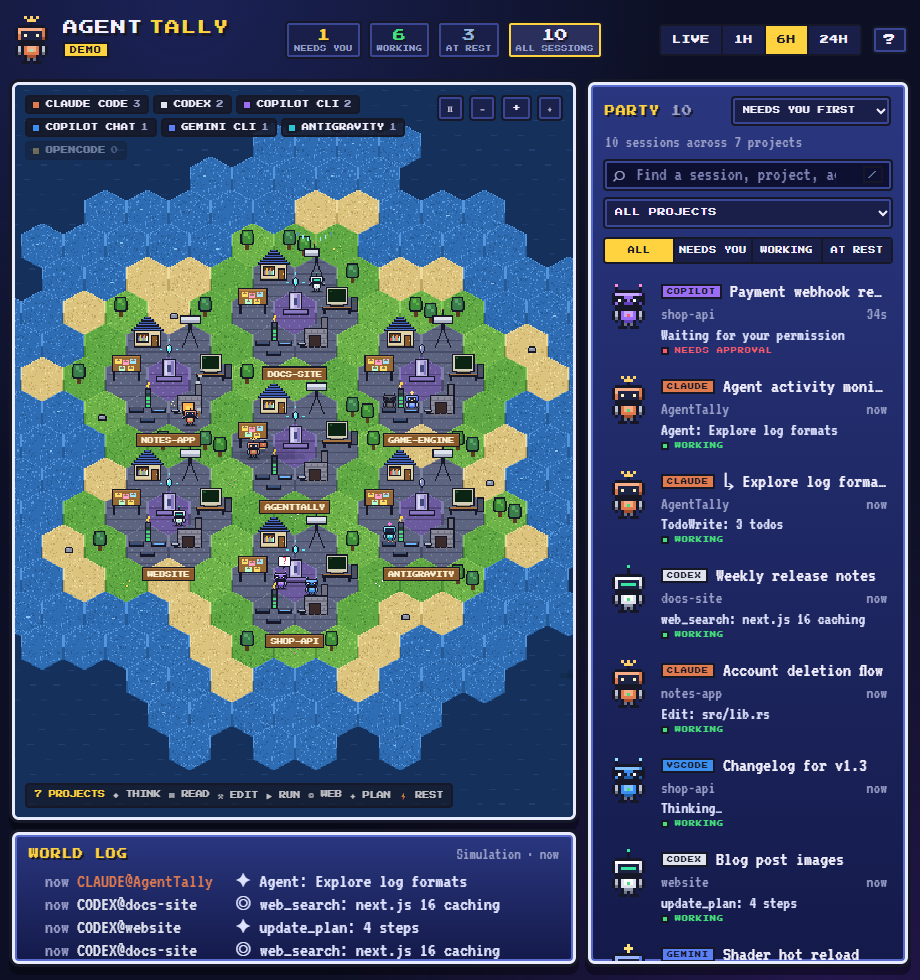
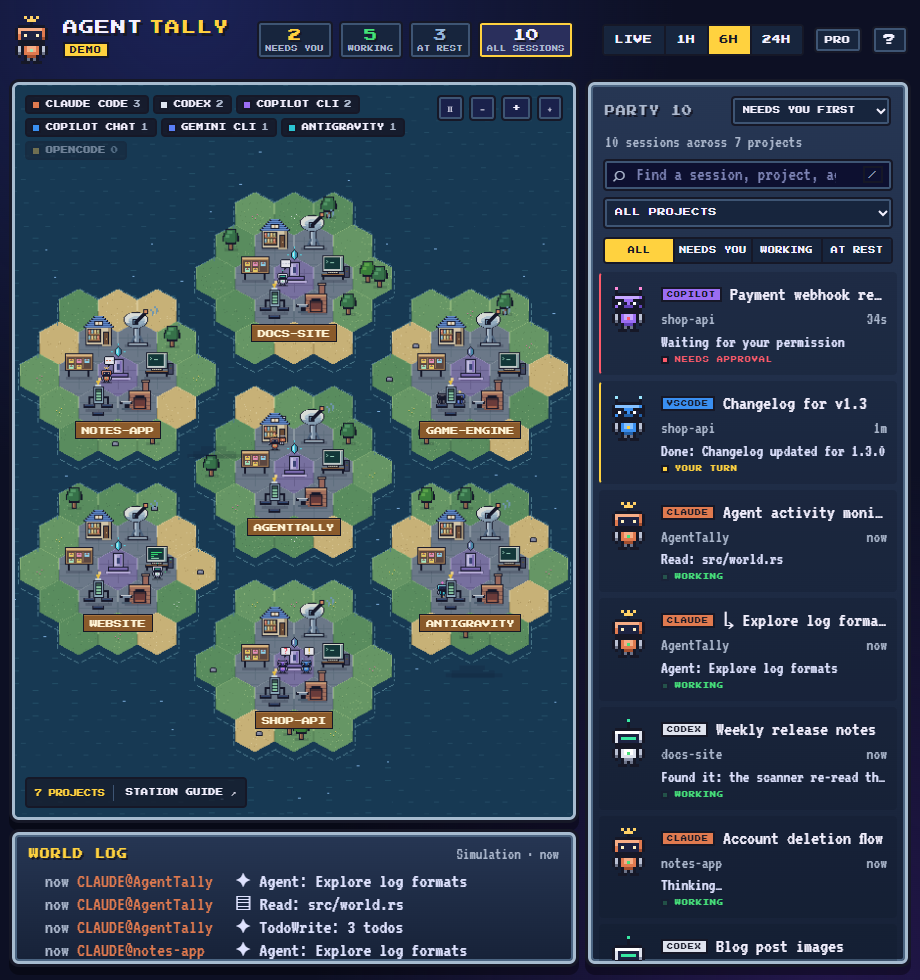
README: describe both interfaces and refresh every screenshot
- New screenshots from the current UI (demo data): Pixel world, Pixel and Pro
  session details, Pro workspace, station guide and the narrow layout.
  The outdated island-polish.png is removed.
- README covers the Pro workspace, the station guide, Antigravity's new
  coverage, per-interface controls, release steps, and adds badges.

diff --git a/README.md b/README.md
@@ -1,25 +1,24 @@
 # AgentTally
 
-A 16-bit hex world that shows what the AI coding agents on your machine are doing, live.
+[![Latest release](https://img.shields.io/github/v/release/kasuken/AgentTally?label=download)](https://github.com/kasuken/AgentTally/releases/latest)
+[![CI](https://github.com/kasuken/AgentTally/actions/workflows/ci.yml/badge.svg)](https://github.com/kasuken/AgentTally/actions/workflows/ci.yml)
+![Platforms](https://img.shields.io/badge/platforms-Windows%20%7C%20macOS%20%7C%20Linux-informational)
 
-Every agent session is a small robot. Every project is a hex island with a **Core** in the
-middle and six stations around it. Robots walk to the station that matches what their agent is
-doing right now, so one glance tells you who is reading code, who is editing, who is running
-commands, and who is waiting for **you**.
+See what the AI coding agents on your machine are doing, live: Claude Code, Codex, GitHub
+Copilot, Gemini CLI, Antigravity and more, side by side.
 
-![AgentTally showing seven project islands with robots at work](docs/screenshots/world.png)
+AgentTally has two interfaces over the same data, and you can switch between them at any time:
+
+- **Pixel** (default): a 16-bit hex world. Every project is an island, every agent session is a
+  small robot that walks to the building matching what it is doing right now.
+- **Pro**: a calm workspace dashboard with one panel per project, one row per session and a
+  30-minute activity timeline.
+
+![The Pixel interface: seven project islands with robots at work](docs/screenshots/world.png)
+
+![The Pro interface: projects as panels with session timelines](docs/screenshots/pro.png)
 
 AgentTally only **reads** local log files. It never sends anything anywhere.
-
-### Two interfaces, same data
-
-Prefer something quieter for the office? Press **Pro view** in the top bar (or <kbd>U</kbd>) to
-switch to a professional workspace dashboard: one panel per project, one row per session with a
-30-minute activity timeline, the current activity, a tool-mix bar and the time it was last seen.
-Search, filters, sorting, session details and the activity log work the same in both. The pixel
-world is the default, and AgentTally remembers the one you picked.
-
-![The Pro workspace view with a session waiting for approval](docs/screenshots/pro.png)
 
 ## Install
 
@@ -58,9 +57,13 @@ sudo apt install ./AgentTally_*_amd64.deb        # Debian, Ubuntu
 sudo dnf install ./AgentTally-*.x86_64.rpm       # Fedora, RHEL
 ```
 
-Then just start your agents as usual. Robots beam in as soon as a session writes to its log.
+Then just start your agents as usual. Sessions appear as soon as they write to their logs.
 
-## How it works
+## The Pixel world
+
+Every project is a hex island with a **Core** in the middle and six buildings around it. Robots
+walk to the building that matches what their agent is doing, so one glance tells you who is
+reading code, who is editing, who is running commands, and who is waiting for **you**.
 
 | Station     | Activity                                   | Examples                                  |
 |-------------|--------------------------------------------|-------------------------------------------|
@@ -74,68 +77,98 @@ Then just start your agents as usual. Robots beam in as soon as a session writes
 
 Robot bubbles: `…` thinking · yellow `!` finished its turn, **your turn** · red `?` waiting for
 permission · `Zzz` sleeping. The chest light shows the status colour. Sub-agents are small drones
-that orbit their parent robot.
+that orbit their parent robot. **Station guide** (bottom left of the map, or <kbd>?</kbd>) shows
+every building and what it means.
 
-Select a robot or a party card to follow it: the camera flies to it and the details window
-shows its project, branch, model, token usage and recent activity.
+<img src="docs/screenshots/guide.png" alt="The station guide with every building and status" width="720" />
 
-![Details of a session waiting for approval](docs/screenshots/details.png)
+Each robot also has a colour and head for its agent: orange with a star antenna for Claude,
+white with a visor for Codex, purple or blue with goggles for Copilot, blue with a sparkle for
+Gemini, and a hovering cyan robot for Antigravity.
 
-### Supported agents
+## The Pro workspace
+
+Press **Pro view** in the top bar (or <kbd>U</kbd>) for a professional dashboard with the same
+data and the same controls:
+
+- One panel per project, showing its path and counts (approvals, your turn, working, sessions,
+  tool calls). Projects that need you come first.
+- One row per session: status, title, agent, current activity, and a chip for what it is doing
+  now (Think, Read, Edit, Run, Web, Plan, or its status when it is not working).
+- A **30-minute activity timeline** per session: each tick is one event, coloured by what the
+  agent was doing (the guide has the full legend). Next to it: the tool mix, tool count and when
+  the session was last seen.
+- Sub-agents are indented under their parent session.
+
+AgentTally remembers your choice of interface. The Pixel world is the default.
+
+## Session details
+
+Select a robot, a workspace row, a session card or an activity entry to open its details: project
+path, branch, model, start time, token usage, tool calls and the recent activity with timestamps.
+In the Pixel world the camera flies to the robot; in Pro view the row is highlighted. Approvals
+and replies still happen in the original agent application; AgentTally tells you where to look.
+
+| Pixel | Pro |
+|---|---|
+| ![Details of a session waiting for approval, Pixel](docs/screenshots/details.png) | ![Details of a session waiting for approval, Pro](docs/screenshots/pro-details.png) |
+
+## Supported agents
 
 | Agent | Where it reads | Detail |
 |---|---|---|
-| Claude Code (CLI, desktop, IDE) | `~/.claude/projects/*/*.jsonl` (+ `subagents/`) | full: prompts, tools, tokens, titles |
+| Claude Code (CLI, desktop, IDE) | `~/.claude/projects/*/*.jsonl` (+ `subagents/`) | full: prompts, tools, tokens, titles, sub-agents |
 | Codex (CLI / desktop) | `~/.codex/sessions/YYYY/MM/DD/rollout-*.jsonl` | full: tools (incl. code-mode `exec`), tokens, sub-agents |
 | GitHub Copilot CLI | `~/.copilot/session-state/*/events.jsonl` | full: tools, permission prompts, session names |
 | GitHub Copilot Chat (VS Code, Insiders, Cursor, VSCodium) | `<config>/Code*/User/workspaceStorage/*/chatSessions/*.jsonl` | prompts, tool invocations, titles |
 | Gemini CLI | `~/.gemini/tmp/*/chats/session-*.json` | prompts, tools, tokens |
 | Antigravity (IDE and CLI) | `~/.gemini/antigravity*/conversation_summaries.db`, `conversations/`, `history.jsonl` | title, project, run status, sub-agents, prompts (CLI) |
-| OpenCode | `~/.local/share/opencode/opencode.db*` | presence only |
+| OpenCode | `~/.local/share/opencode/opencode.db*` | activity only |
 
 `<config>` is `%APPDATA%` on Windows, `~/Library/Application Support` on macOS and `~/.config`
 on Linux. `CLAUDE_CONFIG_DIR` and `CODEX_HOME` are respected. Sessions touched in the last
-24 hours are tracked; the UI filters to LIVE / 1H / 6H / 24H.
+24 hours are tracked; the UI filters to LIVE / 1H / 6H / 24H. When several agents work in the
+same folder, they share one project.
 
 ### How status is derived
 
 - **Working**: a turn is open and something was logged in the last 2 minutes (20 minutes if a
-  tool call is still running).
+  tool call is still running). For Antigravity: its run status is "running".
 - **Your turn**: the agent ended its turn (e.g. Claude `end_turn`, Codex `task_complete`,
-  Copilot final `assistant.turn_end`) less than 20 minutes ago.
+  Copilot's final `assistant.turn_end`, Antigravity "idle") less than 20 minutes ago.
 - **Needs approval**: a permission or approval request is pending (Copilot CLI, Codex).
-- **Idle / Sleeping**: quiet for 20 minutes / 3 hours. **Offline**: the session was shut down.
+- **Idle / Sleeping**: quiet for 20 minutes / 3 hours. **Offline**: the session was shut down
+  or stopped.
 
 ## Controls
 
-The screen is a 16-bit HUD: counters and the time window on top, the hex world as the main
-window (sources, map controls and the station key float over it), the world log below and the
-party list on the right. **Needs you** comes first: permission requests, then completed turns.
-Click a HUD counter or a party status tab to filter. Counters always cover the selected time
-window and enabled providers; search, project, and status filters (in the party window) narrow
-the world, party list, and world log together.
+The top bar has the counters, the time window, the interface switch and the guide. The main
+window is the Pixel world or the Pro workspace, with the activity log below it and the session
+list on the right. **Needs you** comes first: permission requests, then completed turns.
+Click a counter or a status tab to filter. Counters always cover the selected time window and
+enabled sources; search, project, and status filters (in the session list) narrow the main
+window, the session list, and the activity log together.
 
-- Search by session title, project, path, provider, client, or model. `/` focuses search.
-- Filter by project or provider. **Clear filters** restores all sources and the 6-hour window.
+- Search by session title, project, path, provider, client, or model. <kbd>/</kbd> focuses search.
+- Filter by project or source (click a source chip to hide or show it). **Clear filters**
+  restores all sources and the 6-hour window.
 - Sessions default to **Needs you first**, with stable ordering within each status so they
   do not jump around on every log update. Choose **Recently active** or **By project** as needed.
-- Select a robot, session, or activity entry to inspect details and wrapped event text.
-  Copy the project path or locate the robot from the details panel. Approvals and replies
-  still happen in the original agent application.
-- Drag to pan, scroll to zoom around the pointer, or use the zoom buttons. `F` fits the world.
-- **Motion** pauses animation while snapshots keep updating. Reduced-motion preferences
-  are respected. Rendering is capped at 30 fps and stops while the page is hidden.
-- `Esc` closes session details; `?` opens the guide; `U` switches between the Pixel and Pro
-  interfaces. Controls are keyboard accessible.
+- Details: copy the project path, or **Locate on map** / **Show in workspace**.
+- Pixel world: drag to pan, scroll to zoom around the pointer, or use the zoom buttons.
+  <kbd>F</kbd> fits the world. **Motion** pauses animation while data keeps updating.
+- Pro view: <kbd>F</kbd> scrolls the workspace back to the top.
+- <kbd>U</kbd> switches between Pixel and Pro, <kbd>Esc</kbd> closes details, <kbd>?</kbd> opens
+  the guide. Everything is keyboard accessible, and reduced-motion preferences are respected.
 - Time window, enabled sources, sorting, interface, and motion preferences are saved locally.
 
-The source badge explicitly distinguishes **DEMO**, **LIVE**, and **RECONNECTING**.
-Interrupted updates preserve the last snapshot, show a warning, and retry automatically.
+The source badge distinguishes **DEMO**, **LIVE**, and **RECONNECTING**. Interrupted updates keep
+the last snapshot, show a warning, and retry automatically.
 
-The layout adapts to smaller windows, down to a narrow side-by-side view and a phone-sized
+Both interfaces adapt to smaller windows, down to a narrow side-by-side view and a phone-sized
 single column:
 
-<img src="docs/screenshots/compact.png" alt="AgentTally in a narrow window" width="460" />
+<img src="docs/screenshots/compact.png" alt="The Pixel interface in a narrow window" width="460" />
 
 ## Build from source
 
@@ -167,8 +200,8 @@ cd src-tauri && cargo run -- --dump    # prints one snapshot as JSON
 ### Tests
 
 ```bash
-npm test           # filters, attention ordering, map fit, zoom, and paused motion
-cargo test --manifest-path src-tauri/Cargo.toml
+npm test           # filters, ordering, map fit and zoom, workspace grouping and timelines
+cargo test --manifest-path src-tauri/Cargo.toml    # log parsers, status rules, scanner
 ```
 
 For browser recovery checks without reading real agent logs, run
@@ -179,14 +212,15 @@ simulated sessions.
 
 ### Releasing
 
-Pushing a version tag builds installers for Windows, Linux, and macOS (Apple Silicon and Intel)
-with GitHub Actions and publishes them as a GitHub release:
+1. Bump `version` in `package.json`, `src-tauri/Cargo.toml` and `src-tauri/tauri.conf.json`
+   (then run `npm install` and `cargo check` to update the lock files).
+2. Write the release notes in `.github/release-notes.md`.
+3. Push a version tag. GitHub Actions builds installers for Windows, Linux and macOS (Apple
+   Silicon and Intel) and publishes the release:
 
 ```bash
-git tag v0.1.0 && git push origin v0.1.0
+git tag -a vX.Y.Z -m "AgentTally vX.Y.Z" && git push origin vX.Y.Z
 ```
-
-Bump `version` in `src-tauri/tauri.conf.json`, `src-tauri/Cargo.toml` and `package.json` first.
 
 ## Project layout
 
@@ -196,17 +230,19 @@ src-tauri/src/
   scanner.rs        finds session files, tails them incrementally (2 MB replay on first sight;
                     project root, first prompt and parent are read from the head)
   model.rs          Session / Activity / Status, tool → station mapping
-  providers/        one parser per agent log format
+  providers/        one parser per agent log format (Antigravity reads its SQLite summaries
+                    read-only via rusqlite)
 ui/
   index.html        one page for both interfaces
   style.css         Pixel interface (default)
   pro.css           Pro interface, loaded instead of style.css
+  js/main.js        data source, counters, session list, details, activity log, interface switch
   js/world.js       hex map, layout, robots, camera, rendering (Pixel)
   js/board.js       project panels, session rows and activity timelines (Pro)
   js/sprites.js     pixel art: robots, tiles, buildings, bubbles
-  js/main.js        data source, HUD, roster, logs
   js/selectors.js   time, project, provider, search, status, and sorting rules
   js/demo.js        simulated data for ?demo
+docs/screenshots/   README images, taken from demo mode
 .github/workflows/  CI tests and the cross-platform release build
 ```
 
